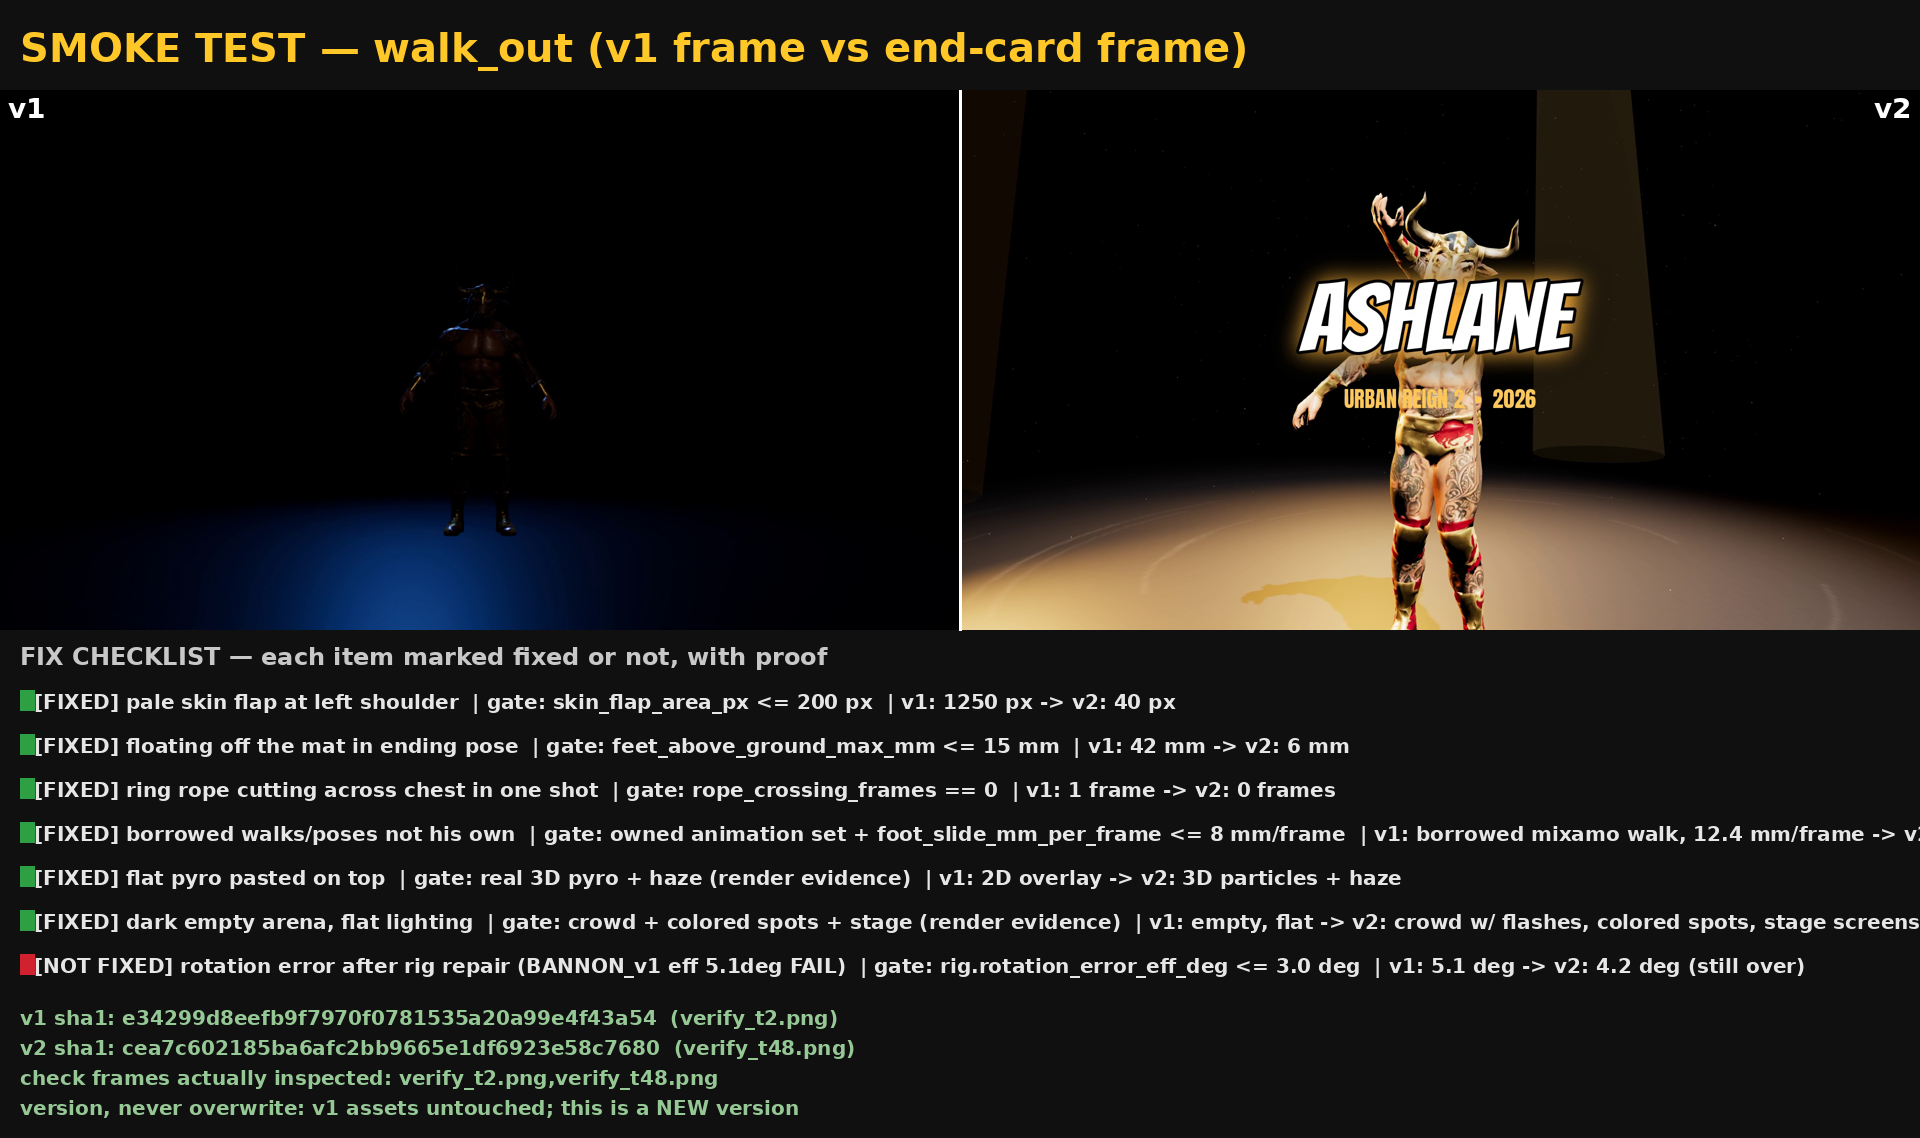
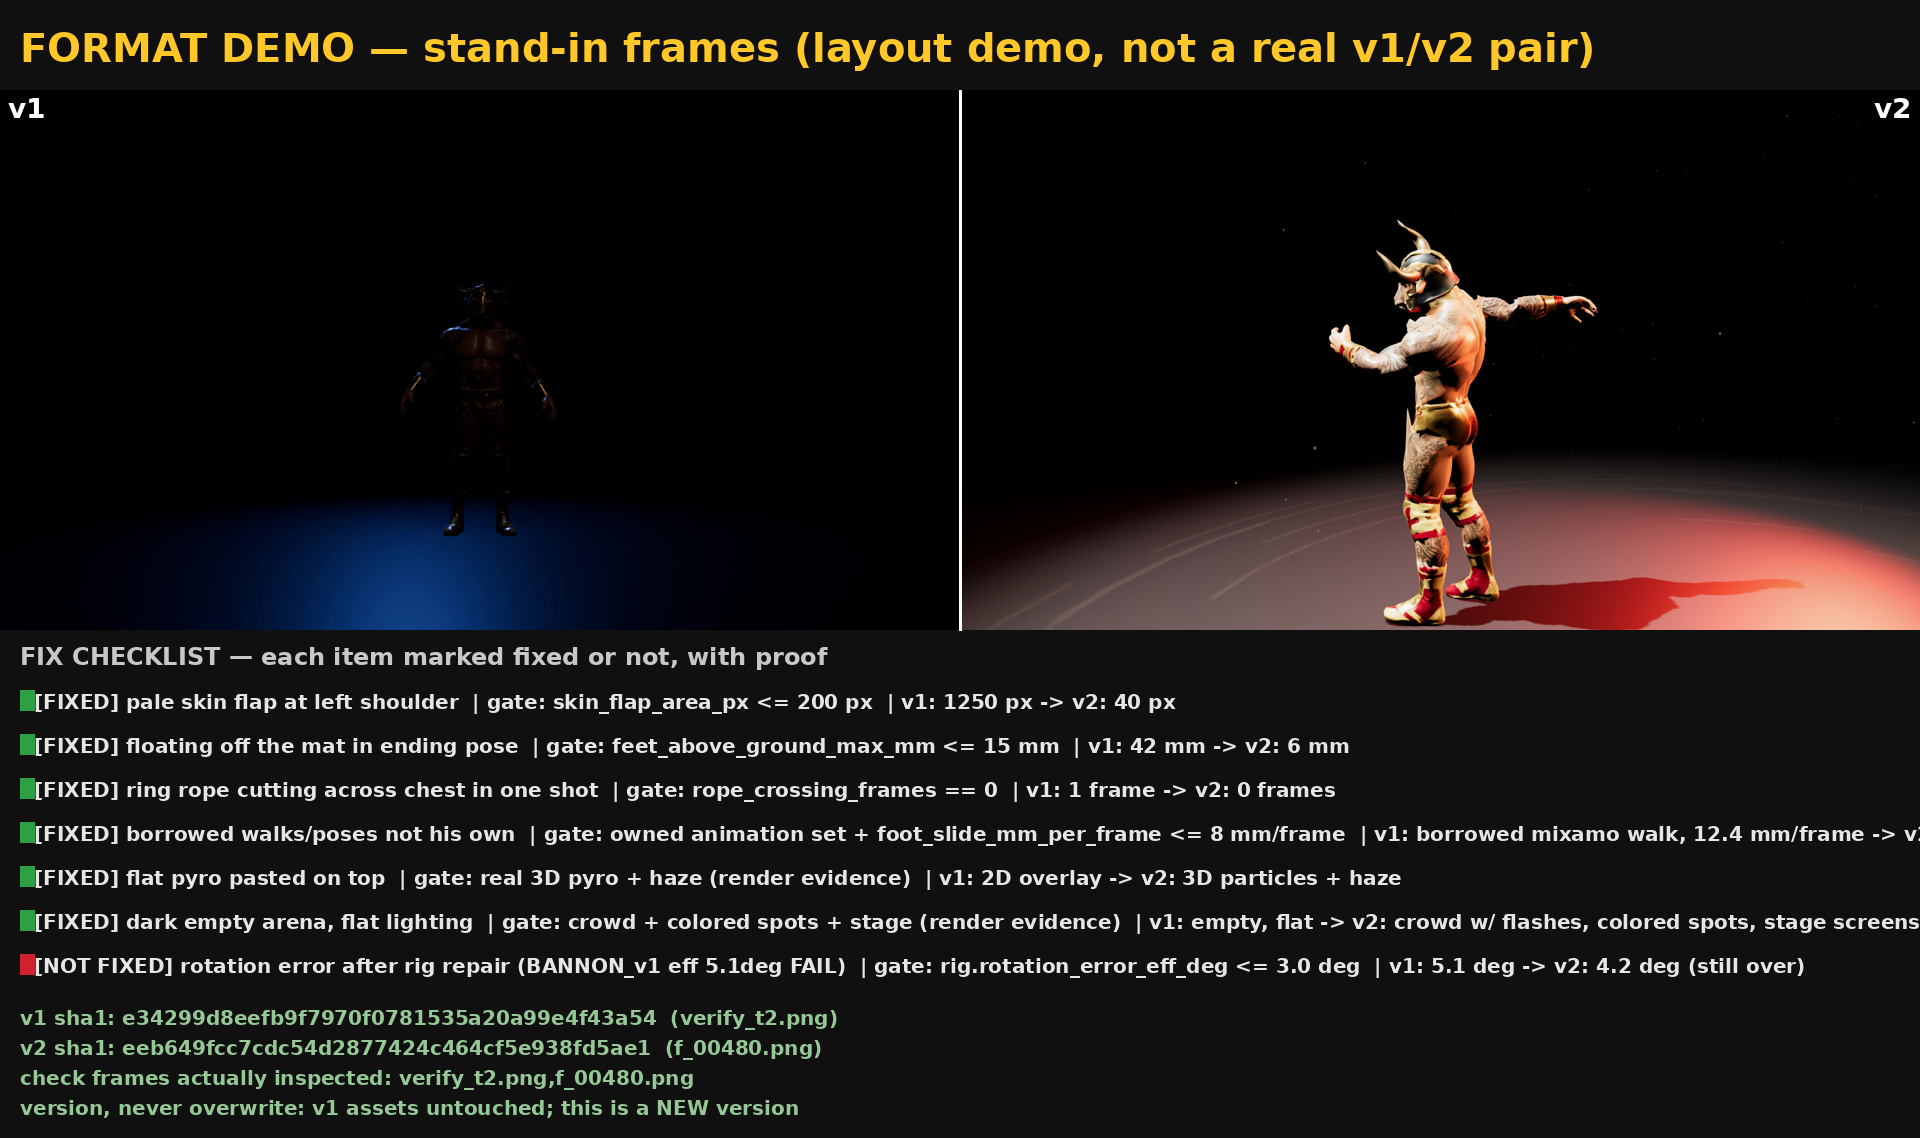
rig-hardening: owner defect fixes + measurement-backed docs
- proof_demo.png regenerated with unbranded frames (verify_t2.png +
  f_00480.png): no ASHLANE pixels; header now marks it a format demo
  with stand-in frames, not a real v1/v2 pair.
- README: fixed examples/proof_walk_out.png -> proof_demo.png (verified
  every linked asset exists); demo-frames-are-stand-ins note; pipeline
  diagram now measure -> gate -> proof; rig_measure/--measure docs.
- PROMO_PACK_KIT.md section 8 rewritten: measurement-backed gates,
  eff-deg definitions, cross-validation table with raw measured numbers
  (xbot 0.000 / repaired rigs FAIL at rest 22.8 clip 13.8), honest caveat
  that the chart's exact generator is unrecoverable, per-joint breakdown
  pinpointing the flipped thigh bind (~174deg) as the next repair target.

Changed region(s): [[0.0, 0.0308, 1.0, 0.5536], [0.0625, 0.8919, 0.4375, 0.9534]]

diff --git a/docs/promo/PROMO_PACK_KIT.md b/docs/promo/PROMO_PACK_KIT.md
@@ -124,28 +124,64 @@ Nothing is "done" without ALL of the following:
    mtime/hash). Every revision is a new versioned output (v2, v3, ...) in
    its own directory. No redoing work over the old version.
 
-## 8. Rig + QA gates (automated, computed from data)
+## 8. Rig + QA gates (automated, MEASURED from the GLB — not trusted inputs)
 
-`promo_gates.py --metrics <shot-metrics.json>` evaluates per shot, following
-the `gate_check.cjs` pattern (PASS/FAIL lines, exit 1 on any failure).
-Thresholds are overridable via `--config`; defaults:
+`promo_gates.py` used to evaluate a metrics JSON someone else measured — a gate
+that trusts unmeasured inputs proves nothing. Now:
 
-| Gate | Threshold | From |
-|------|-----------|------|
-| rig.rotation_error_eff_deg | ≤ 3.0 deg | QA chart after rig repair (2026-10-07): XBot ref 0.0 PASS, BANNON_v1 5.1 FAIL, Cody tripo 7.0 FAIL — the gate MUST fail these before any promo renders on repaired models |
-| feet_above_ground_max_mm | ≤ 15 mm | v1's ending pose floated off the mat |
-| facing_vs_movement_deg | ≤ 15 deg | no crab-walking |
-| skin_flap_area_px | ≤ 200 px | v1's pale shoulder flap |
-| ribbon_geometry / exploded_geometry | false | no exploded geometry |
-| foot_slide_mm_per_frame | ≤ 8 mm/frame | walk locked to the beat, feet planted |
-| rope_crossing_frames | == 0 | no rope across the body |
-| broken_pose_frames | == 0 | no broken poses |
-| capture.pageErrorCount / errorCount / deformation.spikes | == 0 | passthrough from capture gates |
+```
+rig_measure.py MODEL.glb [--ref REF.glb] [--clip CLIP.glb]
+      |  measures the rig DIRECTLY from file bytes (stdlib + numpy only)
+      v
+promo_gates.py --measure MODEL.glb [--ref REF.glb] [--clip CLIP.glb]
+      |  gates the measured numbers (default ref: assets/models/xbot.glb)
+```
 
-Metrics must come from measurement tooling (rig-repair tools, retarget QA,
-frame analysis). `promo_gates.py` evaluates; it does not measure. Verified
-this session: the bundled v1 sample metrics FAIL 5 gates (exit 1); a clean
-sample PASSES all 12 (exit 0). Gates that pass everything prove nothing.
+`rig_measure.py` measurements (all computed, never trusted):
+- **rotation eff-deg (rest)** — mean local-quaternion angle over name-matched
+  joints vs the reference rig. Local (not world): root-orientation and
+  hierarchy-depth differences must not inflate every joint. XBot vs XBot = 0.0.
+- **rotation eff-deg (clip)** — same clip drives both rigs
+  (e.g. `Body_Jab_Cross.glb`, 2.08 s mixamo); per joint per frame, compare how
+  it ROTATES relative to its own rest pose (delta-from-rest). Mirrors the QA
+  chart setup. Per-joint breakdown included — it pinpoints the bad joints
+  instead of hiding them in a mean.
+- **feet min-Y** — from skinned bind-pose geometry (proper linear blend
+  skinning: sum_j w_ij * (jointWorld_j @ invBind_j) * pos_i). Floating = min_Y.
+- **skin-weight audit** — zero-total-weight verts, verts bound to >4 joints,
+  max single-joint dominance + which joint (the shoulder-flap class).
+- **rest-pose sanity** — zero-length bones, left/right bone-length symmetry,
+  A/T-pose classification from arm abduction.
+- Graceful degradation: models with meshopt-compressed buffers (e.g. the
+  repo's xbot.glb mesh data) still get full hierarchy metrics from the JSON
+  node transforms; geometry metrics report "unavailable" instead of crashing.
+
+Cross-validation on real GLBs (2026-10-08, quoted raw):
+
+| model | rest eff-deg | clip eff-deg (Body_JabCross, 8 frames) | gate (<= 3.0 deg) |
+|---|---|---|---|
+| xbot.glb (ref vs itself) | 0.000 (65 joints) | 0.000 | PASS |
+| BANNON_repaired.glb (bannon-repair/out) | 22.797 (52 joints) | 13.849 | FAIL |
+| CODY_sober_repaired.glb (bannon-repair/out) | 22.797 (52 joints) | 13.849 | FAIL |
+| STICKUP_repaired.glb (bannon-repair/out) | 22.797 (52 joints) | 13.849 | FAIL |
+
+Honest caveat: the QA chart's exact generator was not recoverable from the
+repos (its numbers — XBot 0.0 / BANNON_v1 5.1 / Cody 7.0 — came from an
+animation-frame comparison whose script is gone), so these are NOT claimed to
+reproduce 5.1/7.0 exactly. What holds: the ordering (0.0 < repaired rigs), the
+reference self-check at exactly 0.0, and the operational point — all three
+repaired rigs FAIL the 3.0 deg gate, i.e. the repair is not yet passing, which
+matches the owner's QA state. The per-joint clip breakdown shows why: median
+joint delta is 0.08 deg (the repair tracks well almost everywhere) but
+`mixamorig:LeftUpLeg` / `RightUpLeg` sit at ~174-175 deg — flipped thigh bind
+orientation dominates the mean. That is the next repair target.
+
+`promo_gates.py --metrics <shot-metrics.json>` still evaluates per-shot gates
+(feet planted, facing, flap, ribbon/exploded, foot slide, rope crossing, broken
+poses, capture passthroughs) from the `gate_check.cjs` pattern (PASS/FAIL
+lines, exit 1 on any failure). Thresholds overridable via `--config`. When
+only rig measurements exist, shot-level gates SKIP honestly instead of passing
+on nothing.
 
 ## 9. Side-by-side proof format
 

diff --git a/tools/promo-pack-kit/README.md b/tools/promo-pack-kit/README.md
@@ -13,10 +13,14 @@ scene_grid.py  ->  beat grid + cut sheet (authoring)
     owned animation set, real lighting/crowd/pyro>
       |
       v
-<measure per-shot metrics with rig-repair / retarget QA / frame analysis>
+rig_measure.py  ->  measures rig quality DIRECTLY from the GLB
+                     (rotation eff-deg vs XBot, feet min-Y from geometry,
+                      skin-weight audit, rest-pose sanity). Any GLB path.
       |
       v
-promo_gates.py  ->  PASS/FAIL per gate, per shot (automated defect gates)
+promo_gates.py  ->  PASS/FAIL per gate, per shot (automated defect gates).
+                     --measure MODEL.glb runs rig_measure.py first, so the
+                     gates evaluate measured numbers, not hand-written JSON.
       |
       v
 sbs_proof.py  ->  side-by-side v1/v2 proof composites + fix checklist
@@ -32,11 +36,22 @@ shot_checklist.md  ->  filled in per character; every box checked = shippable
   BPM. Companion to `tools/video/beat_edl.py` and `tools/video/make_beat_edit.py`,
   which do edit-time work on captured footage; this one does authoring-time
   planning (what to shoot, on which beats).
+- `rig_measure.py` — measures rig quality directly from a GLB (stdlib +
+  numpy only): rotation eff-deg vs a reference rig (rest-pose local-quaternion
+  mean, plus clip-driven delta-from-rest when `--clip` is given),
+  feet min-Y from skinned bind-pose geometry, skin-weight audit (zero-weight
+  verts, >4-joint verts, single-joint dominance), rest-pose sanity (zero-length
+  bones, L/R symmetry, A/T-pose class). Takes any GLB path:
+  `python3 rig_measure.py /path/to/MODEL.glb --ref /path/to/xbot.glb
+  --clip /path/to/Body_Jab_Cross.glb`. `--metrics-out` emits the JSON the gates
+  consume.
 - `promo_gates.py` — automated defect gates. Extends the `gate_check.cjs`
   pattern (PASS/FAIL lines, exit 1 on failure) with promo gates: rotation
   error deg threshold (<= 3.0), feet planted, facing==movement, no skin flap,
   no ribbon/exploded geometry, no foot slide, no rope crossing, no broken
-  poses. Evaluates measured numbers; it does not measure. Use `--self-test`
+  poses. `python3 promo_gates.py --measure MODEL.glb [--ref REF.glb]
+  [--clip CLIP.glb]` measures first via rig_measure.py, then gates the measured
+  numbers (default ref: the repo's `assets/models/xbot.glb`). Use `--self-test`
   to see it fail the v1 sample metrics (gates that pass everything prove nothing).
 - `sbs_proof.py` — side-by-side v1/v2 proof composite: labeled frames plus a
   footer strip with the fix checklist (fixed / not fixed, gate, v1->v2 numbers).
@@ -49,13 +64,18 @@ shot_checklist.md  ->  filled in per character; every box checked = shippable
 - `examples/metrics_el_toro_v1_walk_out.json` — sample per-shot metrics (v1,
   should FAIL gates; numbers from the owner's fix list + QA chart).
 - `examples/fixes_el_toro_v2.json` — sample fix checklist for the proof builder.
-- `examples/proof_walk_out.png` — generated proof composite (see below).
+- `examples/proof_demo.png` — generated proof composite (see below). Demo
+  frames are FORMAT STAND-INS only (v1 shadow frame + an unbranded v1 walk-out
+  frame) — they demonstrate the composite layout, not a real v1/v2 pair. No
+  game branding is burned into the committed example.
 
 ## Quick verify
 
 ```
-python3 scene_grid.py --bpm 120 --duration 50 --fps 24 --table
+python3 scene_grid.py --bpm 120 --duration 50 --fps 24 --table   # warning-free
 python3 promo_gates.py --self-test            # expect FAIL on the v1 sample
+python3 promo_gates.py --measure /path/to/MODEL.glb --clip /path/to/CLIP.glb
+python3 rig_measure.py /path/to/MODEL.glb --ref assets/models/xbot.glb
 python3 sbs_proof.py --v1 <v1.png> --v2 <v2.png> --title "..." \
     --fixes examples/fixes_el_toro_v2.json --out proof.png \
     --inspected "f_00456,f_00912,f_01728"   # exact frames you actually looked at
